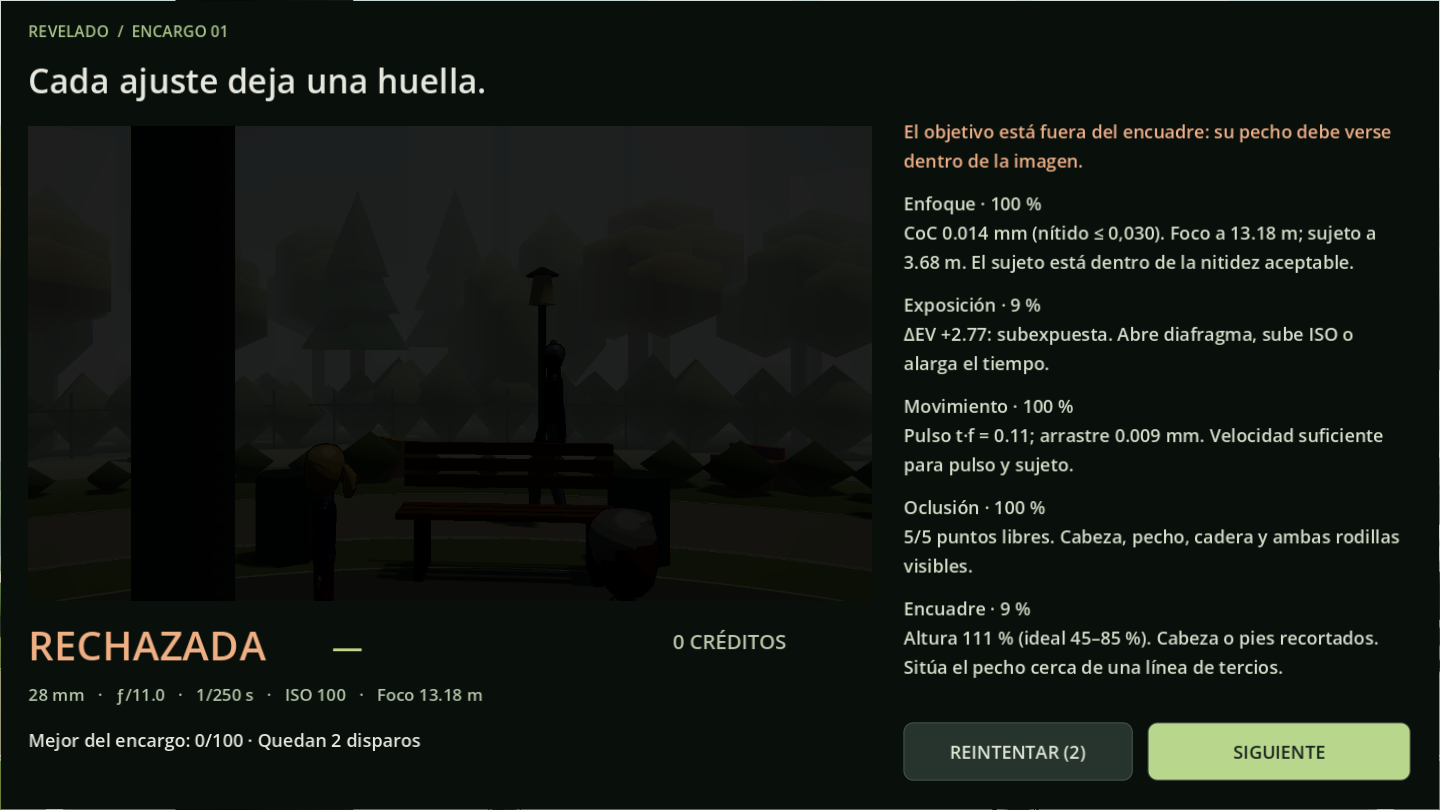
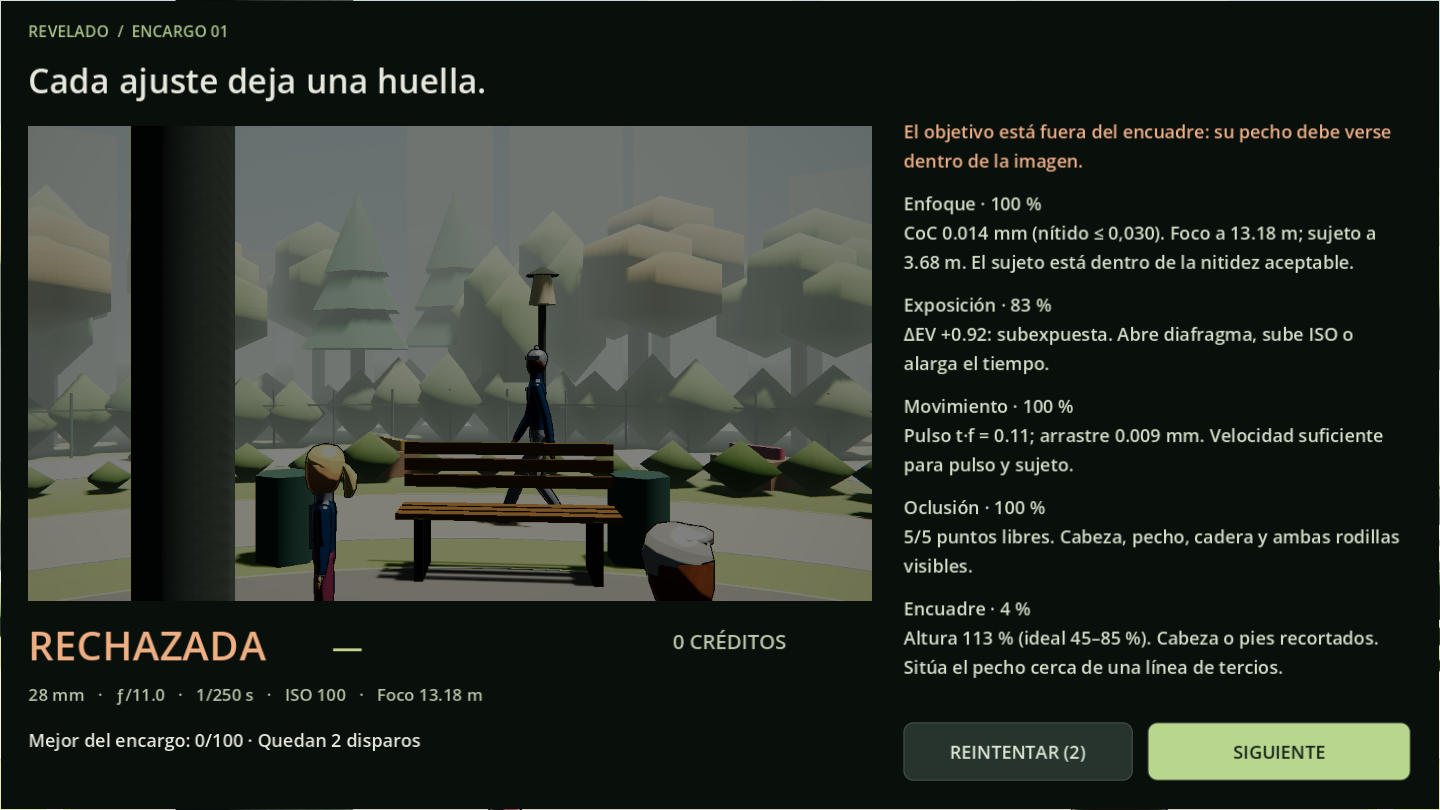
feat: add procedural 3D park environment along with testing, tools, and documentation

diff --git a/tools/build_sheets.py b/tools/build_sheets.py
@@ -110,6 +110,7 @@ Secuencia de momentos clave que recorre el ciclo de juego desde la interfaz inic
 | **03. Visor Réflex** | ![Visor Réflex](estados/03_visor_reflex.png) | Visor óptico clásico con cuadrícula áurea, 9 colimadores AF, prisma esmerilado y aguja del exposímetro analógico. |
 | **04. Parque en Día Despejado** | ![Parque Día](estados/04_parque_dia.png) | Plaza central abierta a $28\\text{ mm}$, 21 viandantes simultáneos y fondo vegetal denso sin caídas de frame. |
 | **05. Atenuación Lumínica por Nubes** | ![Nubes y EV](estados/05_nubes_ev.png) | Nube procedural ocultando el sol con atenuación de 3 EV, modificando el exposímetro y la exposición requerida. |
+| **05b. Parque en Hora Dorada** | ![Hora Dorada](estados/05b_hora_dorada.png) | Puesta de sol a baja cota ($-15^\\circ$), resplandor ambarino cálido, sombras rasantes dramáticas y reflejos en maniquíes. |
 | **06. Parque en Modo Nocturno** | ![Parque Noche](estados/06_parque_noche.png) | Encendido crepuscular de farolas cálidas, iluminación omnidireccional y sombras proyectadas en tiempo real. |
 | **07. Pantalla de Revelado** | ![Revelado](estados/07_revelado.png) | Procesado de imagen fotográfica con grano químico analógico, bokeh por CoC, desenfoque cinético y desglose de puntos. |
 

diff --git a/docs/ESCENARIO_Y_RENDIMIENTO.md b/docs/ESCENARIO_Y_RENDIMIENTO.md
@@ -54,15 +54,23 @@ Para cerrar visualmente el horizonte y proporcionar un fondo natural continuo tr
 
 ## 3. Iluminación y Clima Procedural
 
-### 3.1 Ciclo Día / Noche (`park.set_night()`)
+### 3.1 Iluminación y Horas del Día: Día, Hora Dorada y Noche (`park.set_time_of_day()`)
 - **Día**:
-  - Sol direccional (`DirectionalLight3D`): `light_energy = 1.4`, color cálido `fff0d7`.
+  - Sol cenital (`DirectionalLight3D`, pitch $-72^\circ$): `light_energy = 1.4`, color cálido `fff0d7`.
   - Sombras dinámicas ortogonales activadas con atlas de 2048.
   - Cielo celeste y luz ambiental difusa (`c6d6df`, energía 0.16).
   - Luz incidente: **$EV \approx 14.8$** al sol y **$EV = 11.0$** en sombra (detalle en [SIMULACION_FOTOGRAFICA.md §2.2](SIMULACION_FOTOGRAFICA.md)).
+- **Hora Dorada (Golden Hour)**:
+  - **Sol rasante bajo en el horizonte** (pitch $-15^\circ$, azimut $-48^\circ$): proyecta sombras largas, dramáticas y oblicuas que atraviesan los paseos circulares y acentúan el volumen y relieve de los maniquíes.
+  - **Luz solar ámbar dorado intensa**: `light_color = Color("ffa544")`, `light_energy = 2.2`, penumbra suave `shadow_blur = 2.2`.
+  - **Gradiente de cielo crepuscular**: cenit azul índigo profundo (`18355e`), horizonte naranja resplandeciente (`ed8234`) y suelo reflectante ambarino (`b55e24`).
+  - **Ambiente y niebla dorada**: contraste cromático con ambiente crepuscular azulado (`4a5e7e`, energía 0.24) y neblina de profundidad dorada difusa (`e58b3e`).
+  - **Encendido crepuscular de farolas**: filamentos incandescentes encendiéndose con luz cálida suave (`light_energy = 0.90`, `ffcb74`).
+  - **Nubes melocotón dorado**: cúmulos al atardecer (`f09e60`).
+  - Luz incidente: **$EV \approx 14.0$** a pleno sol rasante y **$EV \approx 9.6$** en las sombras proyectadas.
 - **Noche**:
   - Sol desactivado / atenuado (`light_energy = 0.035`, tinte nocturno `9caed4`).
-  - 12 farolas cilíndricas con luminarias omnidireccionales cálidas (`ffcd82`, radio de alcance $6.0\text{ m}$) que proyectan sombras directas.
+  - 12 farolas cilíndricas con luminarias omnidireccionales cálidas (`ffcd82`, radio de alcance $6.0\text{ m}$) que proyectan sombras directas (`light_energy = 2.2`).
   - Luz incidente: **$EV = 2.0$** lejos de farolas; bajo farola $\approx 8.4$ a 1 m, $5.2$ a 3 m y $2.9$ a 5 m.
 
 ### 3.2 Sistema Meteorológico de Nubes

diff --git a/AGENTS.md b/AGENTS.md
@@ -24,7 +24,7 @@ Para no tener que analizar el código fuente en detalle antes de cada tarea, con
 | **Personajes y Locomoción** | [docs/PERSONAJES_Y_CINEMATICA.md](docs/PERSONAJES_Y_CINEMATICA.md) | 4 perfiles anatómicos, rig universal de 20 huesos, pesaje rígido, coloreado por vértice (`ARRAY_COLOR`), estilo maniquí (madera, rótulas, shaders toon y de contorno), cinemática `gait.gd` y ética de casting. |
 | **Simulación Óptica y Foto** | [docs/SIMULACION_FOTOGRAFICA.md](docs/SIMULACION_FOTOGRAFICA.md) | Ecuaciones de CoC, profundidad de campo, EV, trepidación, shaders de revelado (`develop.gdshader`), ayuda de foco y algoritmo de puntuación. |
 | **Equipamiento y Ópticas** | [docs/EQUIPAMIENTO_Y_OPTICAS.md](docs/EQUIPAMIENTO_Y_OPTICAS.md) | Cuerpos (compacta, telemétrica, réflex), catálogo de objetivos (24 mm a 200 mm), diafragmas, compensación de exposición (±EV), carretes analógicos y visor HUD de 9 colimadores. |
-| **Escenario y Rendimiento** | [docs/ESCENARIO_Y_RENDIMIENTO.md](docs/ESCENARIO_Y_RENDIMIENTO.md) | Disposición del parque, masa vegetal densa de fondo, ciclo día/noche, sombras dinámicas, sistema de nubes y presupuestos de hardware. |
+| **Escenario y Rendimiento** | [docs/ESCENARIO_Y_RENDIMIENTO.md](docs/ESCENARIO_Y_RENDIMIENTO.md) | Disposición del parque, peana de diorama, masa vegetal de fondo, iluminación (día, hora dorada, noche), sombras dinámicas, sistema de nubes y presupuestos de hardware. |
 | **Pruebas y Verificación** | [docs/TESTS_Y_VERIFICACION.md](docs/TESTS_Y_VERIFICACION.md) | **Fuente única** de comandos de prueba, opciones de arranque, herramientas de `tools/` y cifras de referencia medidas. Headless vs. Display y uso con Xvfb. |
 | **Banco de Futuras Mejoras** | [docs/futuro/README.md](docs/futuro/README.md) | Especificaciones técnicas de mapa abierto, TLR, nuevos escenarios, academia, estilos de maniquí (toon y diorama físico PBR realista), animación universal (Quaternius), modos de fotometría (matricial/spot) y autofoco avanzado (AF-C/AF-S). |
 

diff --git a/docs/evidencias/GALERIA.md b/docs/evidencias/GALERIA.md
@@ -16,6 +16,7 @@ Secuencia de momentos clave que recorre el ciclo de juego desde la interfaz inic
 | **03. Visor Réflex** | ![Visor Réflex](estados/03_visor_reflex.png) | Visor óptico clásico con cuadrícula áurea, 9 colimadores AF, prisma esmerilado y aguja del exposímetro analógico. |
 | **04. Parque en Día Despejado** | ![Parque Día](estados/04_parque_dia.png) | Plaza central abierta a $28\text{ mm}$, 21 viandantes simultáneos y fondo vegetal denso sin caídas de frame. |
 | **05. Atenuación Lumínica por Nubes** | ![Nubes y EV](estados/05_nubes_ev.png) | Nube procedural ocultando el sol con atenuación de 3 EV, modificando el exposímetro y la exposición requerida. |
+| **05b. Parque en Hora Dorada** | ![Hora Dorada](estados/05b_hora_dorada.png) | Puesta de sol a baja cota ($-15^\circ$), resplandor ambarino cálido, sombras rasantes dramáticas y reflejos en maniquíes. |
 | **06. Parque en Modo Nocturno** | ![Parque Noche](estados/06_parque_noche.png) | Encendido crepuscular de farolas cálidas, iluminación omnidireccional y sombras proyectadas en tiempo real. |
 | **07. Pantalla de Revelado** | ![Revelado](estados/07_revelado.png) | Procesado de imagen fotográfica con grano químico analógico, bokeh por CoC, desenfoque cinético y desglose de puntos. |
 
